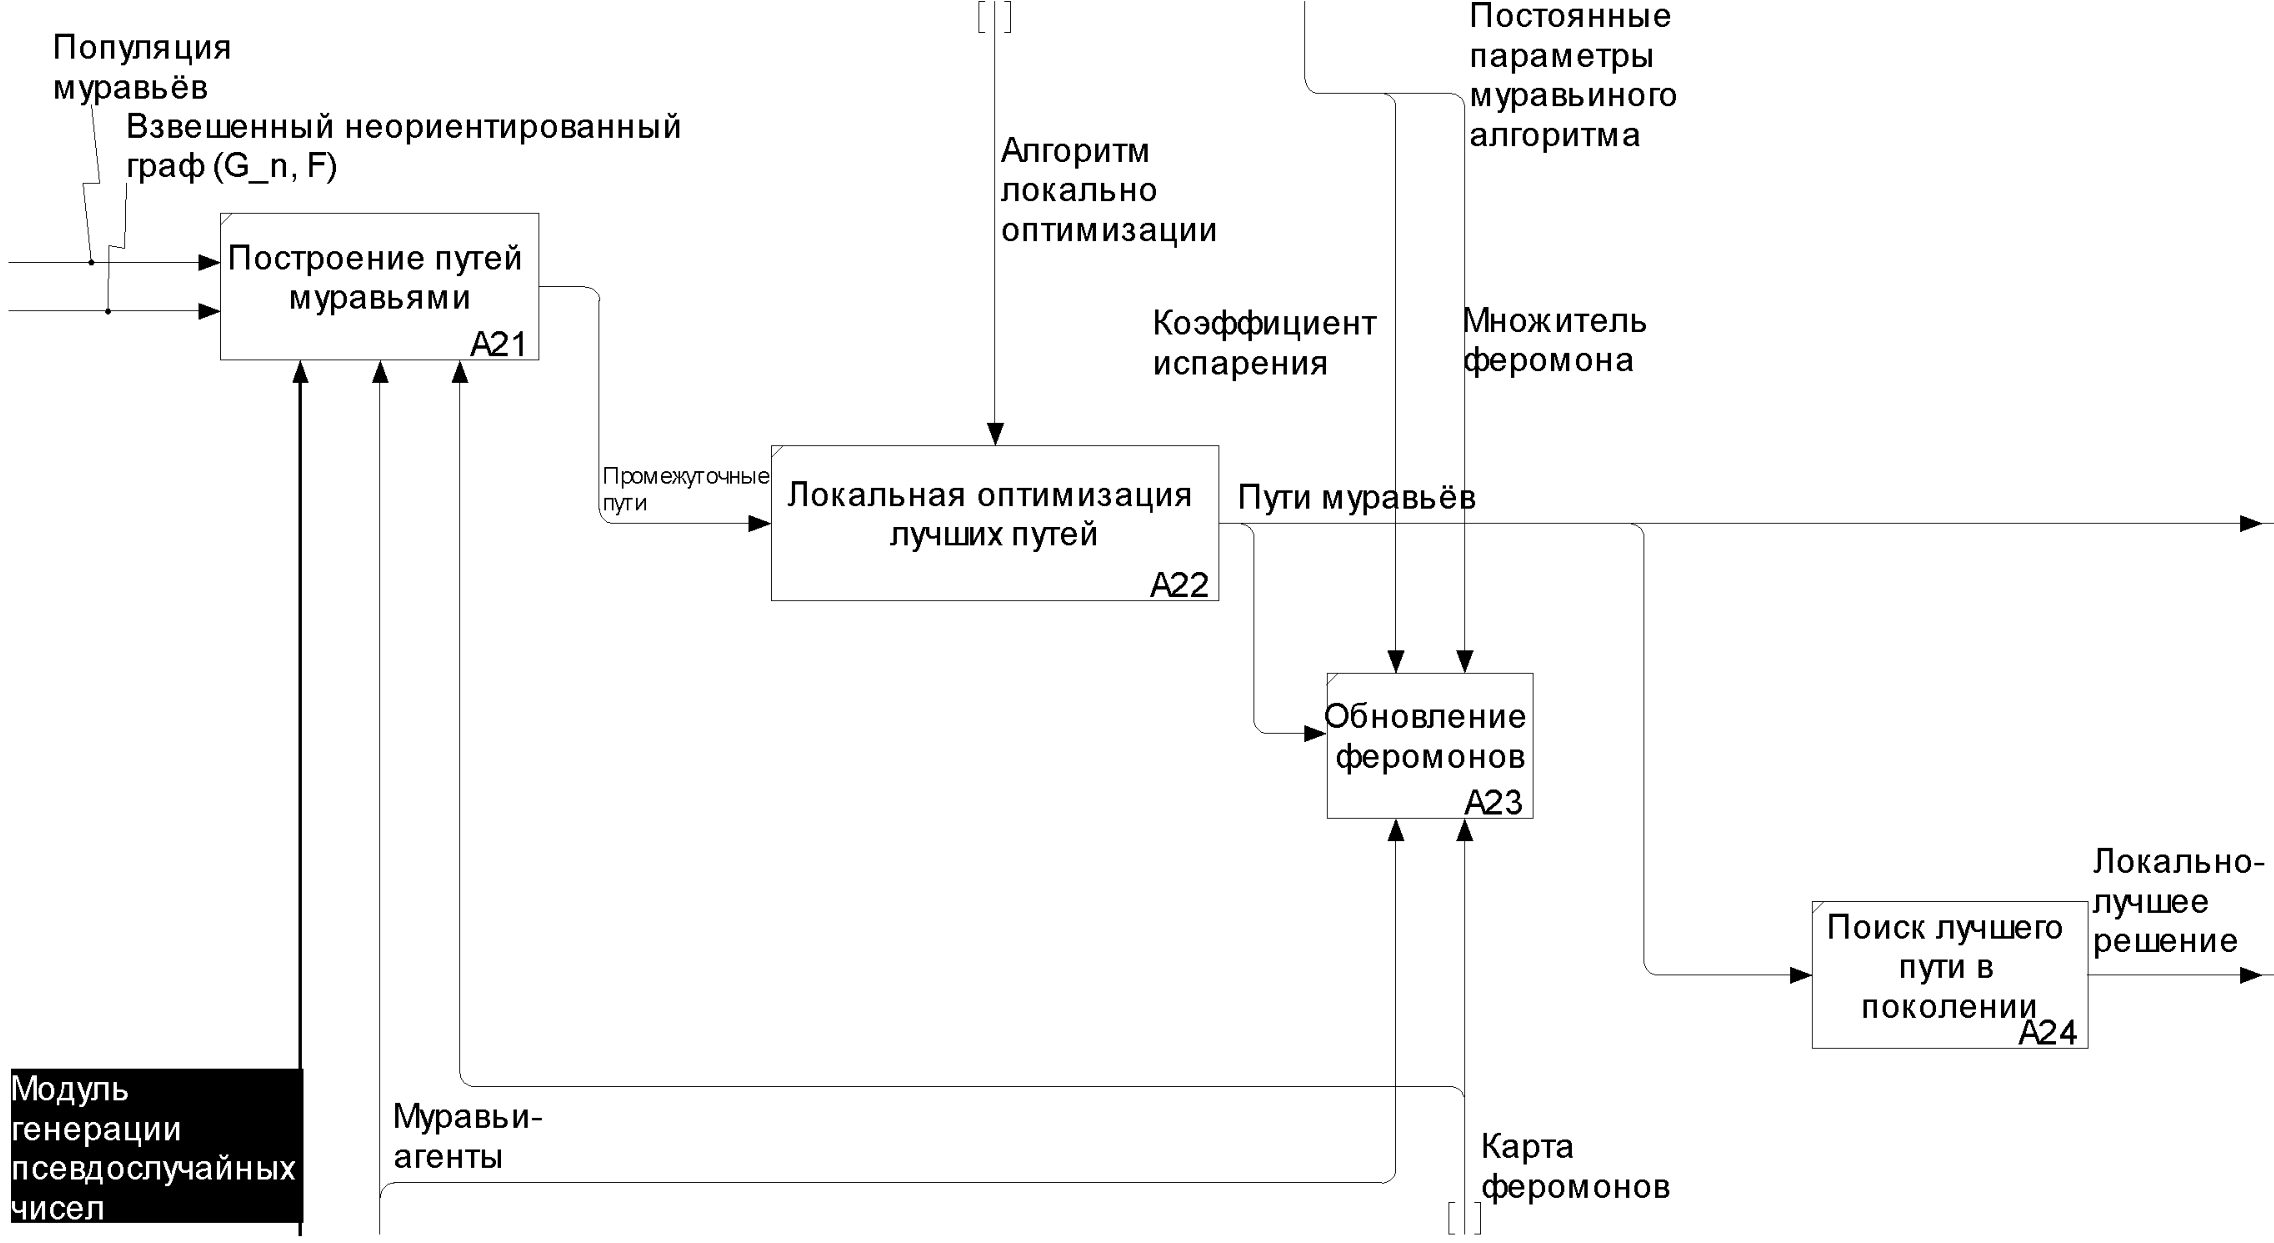
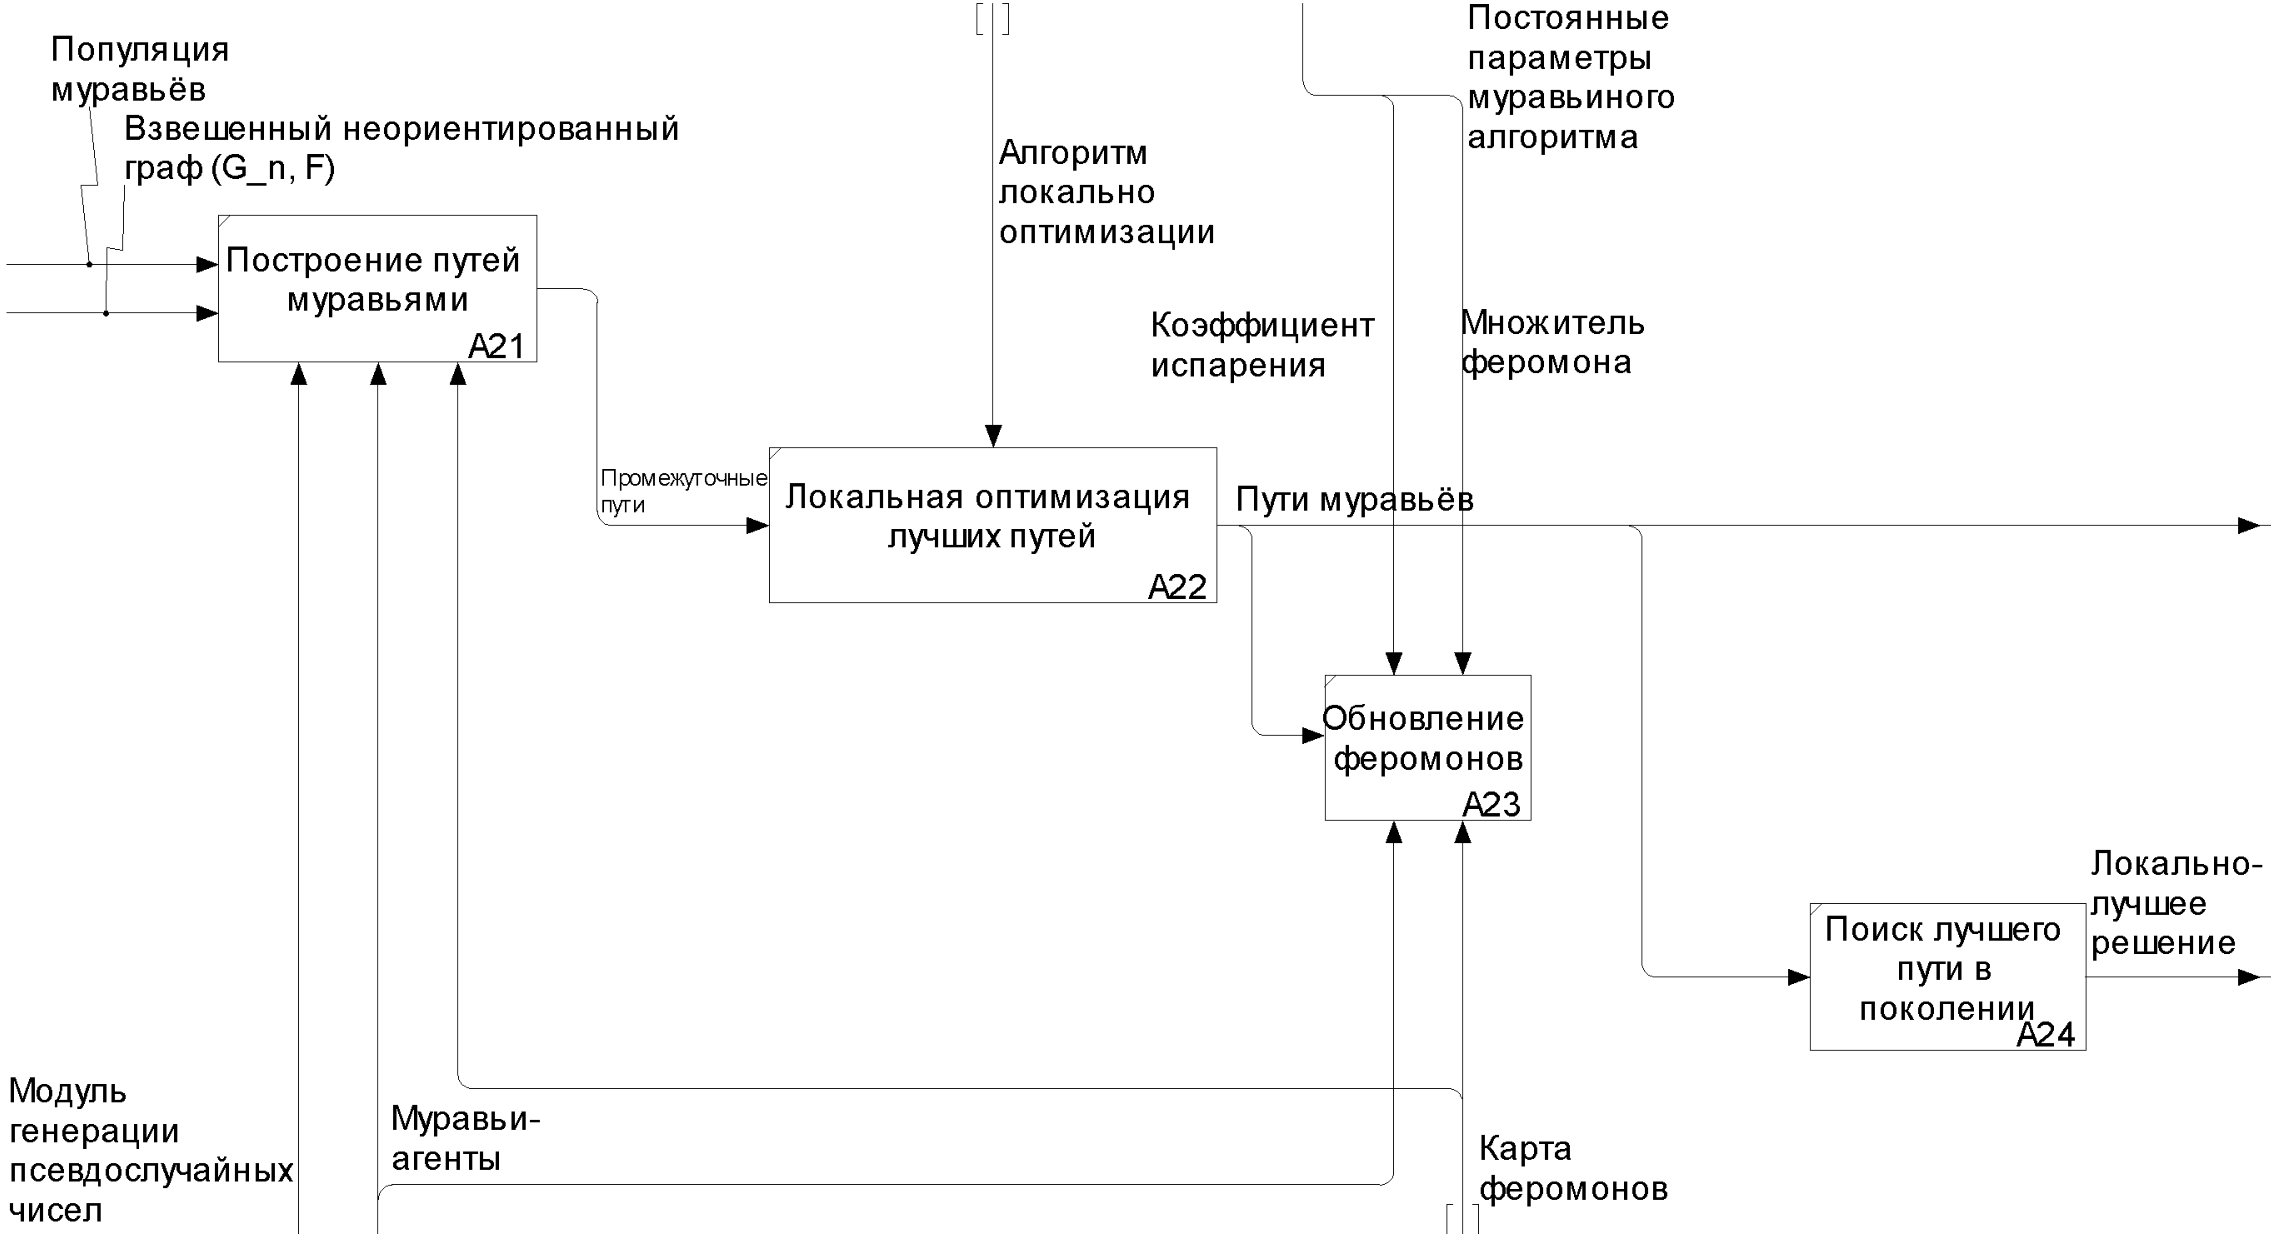
upd

diff --git a/scripts/stability_post.py b/scripts/stability_post.py
@@ -1,111 +1,33 @@
 import pandas as pd
 import numpy as np
 import matplotlib.pyplot as plt
-from mpl_toolkits.mplot3d import Axes3D
-from matplotlib import cm
+from matplotlib.colors import PowerNorm
+import seaborn as sns
 from matplotlib.patches import Patch
 import os
+
+# Настройка глобальных параметров шрифтов (еще больше увеличены)
+plt.rcParams['font.size'] = 14
+plt.rcParams['axes.labelsize'] = 16
+plt.rcParams['axes.titlesize'] = 16
+plt.rcParams['xtick.labelsize'] = 13
+plt.rcParams['ytick.labelsize'] = 13
+plt.rcParams['legend.fontsize'] = 14
+plt.rcParams['figure.titlesize'] = 18
 
 os.makedirs('out/stability', exist_ok=True)
 
 # Чтение данных
 df = pd.read_csv('stability.csv')
 
-# ==================== ЧАСТЬ 1: 3D графики (два в одном) ====================
+# ==================== ЧАСТЬ 1: Тепловые карты (две рядом) ====================
 
-def create_combined_3d_stability_plot(data_dict, output_path):
-    """Создает два 3D столбчатых графика рядышком для разных методов"""
+def create_combined_heatmap_stability_plot(data_dict, output_path):
+    """Создает две тепловые карты рядышком для разных методов"""
     names = list(data_dict.keys())
-    fig = plt.figure(figsize=(16, 8))
-    z_mean_max = 0
-    z_mean_min = float('inf')
-    for idx, name in enumerate(names, 1):
-        data = data_dict[name]
-        alphas = sorted(data['alpha'].unique())
-        betas = sorted(data['beta'].unique())
-        for alpha in alphas:
-            for beta in betas:
-                scores = data[(data['alpha'] == alpha) & (data['beta'] == beta)]['score']
-                z_mean = scores.mean()
-                if z_mean > z_mean_max:
-                    z_mean_max = z_mean
-                if z_mean < z_mean_min:
-                    z_mean_min = z_mean
+    fig, axes = plt.subplots(1, 2, figsize=(20, 9))
     
-    for idx, name in enumerate(names, 1):
-        data = data_dict[name]
-        ax = fig.add_subplot(1, 2, idx, projection='3d')
-
-        # Получаем уникальные значения
-        alphas = sorted(data['alpha'].unique())
-        betas = sorted(data['beta'].unique())
-        
-        # Создаем сетку для столбцов
-        x_pos = np.arange(len(alphas))
-        y_pos = np.arange(len(betas))
-        X, Y = np.meshgrid(x_pos, y_pos)
-        X = X.flatten()
-        Y = Y.flatten()
-        
-        # Собираем данные
-        z_mean = []
-        z_std = []
-        
-        for alpha in alphas:
-            for beta in betas:
-                scores = data[(data['alpha'] == alpha) & (data['beta'] == beta)]['score']
-                if len(scores) > 0:
-                    z_mean.append(scores.mean())
-                    z_std.append(scores.std())
-                else:
-                    z_mean.append(0)
-                    z_std.append(0)
-        
-        Z = np.array(z_mean)
-        errors = np.array(z_std)
-        
-        # Цветовая карта на основе значений
-        norm = plt.Normalize(z_mean_min, z_mean_max)
-        colors = cm.viridis(norm(Z))
-        
-        # Рисуем столбцы
-        bars = ax.bar3d(X, Y, np.zeros_like(Z), dx=0.7, dy=0.7, dz=Z, 
-                        color=colors, alpha=0.7, edgecolor='black', linewidth=0.5)
-        
-        # Добавляем планки ошибок (std)
-        for i, (x, y, z, err) in enumerate(zip(X, Y, Z, errors)):
-            # Верхняя планка
-            ax.plot([x, x], [y, y], [z, z + err], color='red', linewidth=2, alpha=0.8)
-            ax.plot([x-0.15, x+0.15], [y, y], [z + err, z + err], color='red', linewidth=2, alpha=0.8)
-            # Нижняя планка
-            if z - err >= 0:
-                ax.plot([x, x], [y, y], [z, z - err], color='red', linewidth=2, alpha=0.8)
-                ax.plot([x-0.15, x+0.15], [y, y], [z - err, z - err], color='red', linewidth=2, alpha=0.8)
-        
-        # Настройка осей
-        ax.set_xticks(x_pos)
-        ax.set_xticklabels([f'{a:.3f}' for a in alphas], rotation=45, ha='right', fontsize=8)
-        ax.set_yticks(y_pos)
-        ax.set_yticklabels([f'{b:.3f}' for b in betas], fontsize=12)
-        ax.set_xlabel('α', fontsize=14, labelpad=10)
-        ax.set_ylabel('β', fontsize=14, labelpad=10)
-        ax.set_zlabel('Средняя длина маршрута', fontsize=14, labelpad=10)
-        z_min = ax.get_zlim()[0]
-        ax.set_zlim([z_min, z_mean_max])
-        
-        # Название для подграфика
-        name_ru = 'Модификация' if name == 'haco' else 'Муравьиный'
-        ax.set_title(f'{name_ru} алгоритм', fontsize=13, fontweight='bold', pad=20)
-        
-        # Настройка угла обзора для лучшей видимости
-        ax.view_init(elev=25, azim=-60)
-    
-    # Общий заголовок
-    fig.suptitle('Сравнение устойчивости алгоритмов: средняя длина маршрута', 
-                 fontsize=14, fontweight='bold', y=0.98)
-    
-    # Добавляем общий colorbar
-    # Собираем все значения для общего colorbar
+    # Находим общий диапазон для цветовой шкалы
     all_scores = []
     for data in data_dict.values():
         for alpha in sorted(data['alpha'].unique()):
@@ -114,18 +36,88 @@ def create_combined_3d_stability_plot(data_dict, output_path):
                 if len(scores) > 0:
                     all_scores.append(scores.mean())
     
-    if all_scores:
-        sm = plt.cm.ScalarMappable(cmap=cm.viridis, 
-                                   norm=plt.Normalize(min(all_scores), max(all_scores)))
-        sm.set_array([])
-        cbar = fig.colorbar(sm, ax=fig.axes, shrink=0.5, aspect=20, pad=0.05)
-        cbar.set_label('Средняя длина маршрута', fontsize=12)
+    vmin, vmax = min(all_scores), max(all_scores)
     
-    plt.tight_layout()
+    # Используем степенную нормализацию (gamma < 1 делает быстрое изменение в начале)
+    # gamma=0.5 - квадратный корень, изменение цвета быстрее для малых значений
+    # gamma=0.3 - еще более быстрое изменение в начале
+    gamma = 0.4  # можно регулировать: чем меньше gamma, тем быстрее изменение в начале
+    norm = PowerNorm(gamma=gamma, vmin=vmin, vmax=vmax)
+    
+    for idx, name in enumerate(names):
+        data = data_dict[name]
+        ax = axes[idx]
+        
+        # Получаем уникальные значения
+        alphas = sorted(data['alpha'].unique())
+        betas = sorted(data['beta'].unique())
+        
+        # Создаем матрицу средних значений
+        mean_matrix = np.zeros((len(betas), len(alphas)))
+        std_matrix = np.zeros((len(betas), len(alphas)))
+        
+        for i, beta in enumerate(betas):
+            for j, alpha in enumerate(alphas):
+                scores = data[(data['alpha'] == alpha) & (data['beta'] == beta)]['score']
+                if len(scores) > 0:
+                    mean_matrix[i, j] = scores.mean()
+                    std_matrix[i, j] = scores.std()
+                else:
+                    mean_matrix[i, j] = np.nan
+                    std_matrix[i, j] = np.nan
+        
+        # Рисуем тепловую карту с нелинейной нормализацией
+        im = ax.imshow(mean_matrix, cmap='viridis', aspect='auto', 
+                       origin='lower', norm=norm)
+        
+        # Настройка осей
+        ax.set_xticks(np.arange(len(alphas)))
+        ax.set_yticks(np.arange(len(betas)))
+        ax.set_xticklabels([f'{a:.3f}' for a in alphas], rotation=45, ha='right', fontsize=13)
+        ax.set_yticklabels([f'{b:.3f}' for b in betas], fontsize=13)
+        ax.set_xlabel('α', fontsize=17, fontweight='bold', labelpad=10)
+        ax.set_ylabel('β', fontsize=17, fontweight='bold', labelpad=10)
+        
+        # Добавляем значения в ячейки с инвертированным цветом
+        for i in range(len(betas)):
+            for j in range(len(alphas)):
+                if not np.isnan(mean_matrix[i, j]):
+                    # Используем нормализованное значение для определения цвета текста
+                    norm_val = norm(mean_matrix[i, j])
+                    
+                    if norm_val < 0.5:
+                        text_color = 'white'  # светлый текст на темном фоне
+                    else:
+                        text_color = 'black'  # темный текст на светлом фоне
+                    
+                    ax.text(j, i, f'{mean_matrix[i, j]:.1f}\n±{std_matrix[i, j]:.1f}',
+                           ha='center', va='center', fontsize=11, color=text_color, weight='bold')
+        
+        # Название для подграфика
+        name_ru = 'Модифицированный' if name == 'haco' else 'Муравьиный'
+        ax.set_title(f'{name_ru} алгоритм\n(среднее ± СКО)', fontsize=17, fontweight='bold', pad=20)
+    
+    # Общий colorbar - размещаем справа от обоих графиков
+    cbar_ax = fig.add_axes([0.92, 0.15, 0.02, 0.7])
+    cbar = fig.colorbar(im, cax=cbar_ax)
+    cbar.set_label('Средняя длина маршрута', fontsize=15, fontweight='bold')
+    cbar.ax.tick_params(labelsize=13)
+    
+    # Добавляем информацию о нелинейности на colorbar
+    cbar.ax.text(1.5, 0.5, f'(γ={gamma})', transform=cbar.ax.transAxes, 
+                 fontsize=10, rotation=90, va='center')
+    
+    # Общий заголовок
+    fig.suptitle('Сравнение устойчивости алгоритмов', 
+                 fontsize=20, fontweight='bold', y=1.02)
+    
+    # Настраиваем отступы
+    plt.subplots_adjust(left=0.08, right=0.9, wspace=0.25, top=0.88, bottom=0.1)
+    
     plt.savefig(output_path, dpi=200, bbox_inches='tight')
     plt.show()
     plt.close()
-    print(f"✓ Сохранен совмещенный график: {output_path}")
+    print(f"✓ Сохранен совмещенный график (тепловые карты) с нелинейной шкалой: {output_path}")
 
 # Создаем совмещенный график для haco и aco
 methods_to_plot = {}
@@ -136,7 +128,7 @@ for name in ['haco', 'aco']:
         print(f"⚠ Предупреждение: метод '{name}' не найден в данных")
 
 if methods_to_plot:
-    create_combined_3d_stability_plot(methods_to_plot, 'out/stability/comparison.png')
+    create_combined_heatmap_stability_plot(methods_to_plot, 'out/stability/comparison.png')
 
 # ==================== ЧАСТЬ 2: LaTeX таблица ====================
 
@@ -282,6 +274,6 @@ for res in results:
 
 print("\n" + "="*60)
 print("✅ Все задачи выполнены!")
-print("  - Совмещенный график: out/stability/comparison.png")
+print("  - Совмещенный график (тепловые карты): out/stability/comparison.png")
 print("  - LaTeX таблица: out/stability/results.tex")
 print("  - CSV с анализом: out/stability/mean_scores_stability.csv")